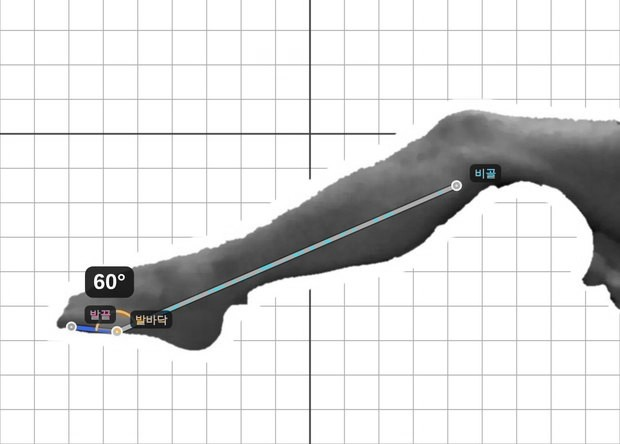
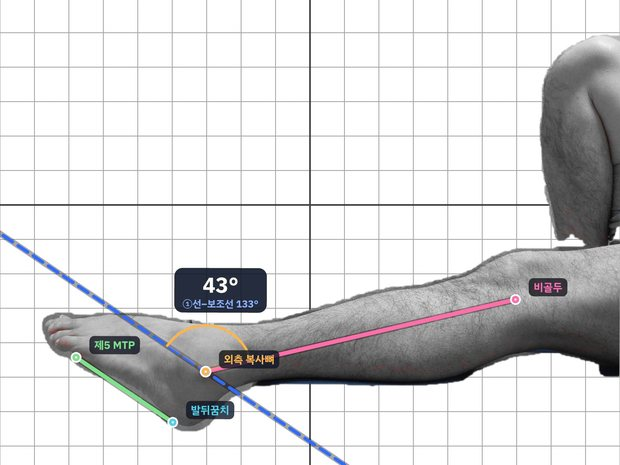
fix: 발목 배측·저측굴곡 측정가이드에 예시 사진이 없던 문제
v266 에서 발목을 4점 방식으로 바꾸면서, 예전 3점 예시 사진이 새 기준과 달라
측정가이드에서 사진을 아예 숨겨 놓았다(다른 부위는 모두 사진이 보임).

- guide/rom/ankle_{L,R}_{dorsi,plantar}.jpg 4장을 4점 기준으로 다시 찍은
  사진으로 교체 (620x465 · 기존 가이드 사진과 같은 형식)
  · 촬영 정보가 담긴 머리말(센터·측정일 등)은 잘라냄, EXIF 없음
  · 몸은 흑백, 측정선·라벨 색은 유지 (①선 분홍 · ②선 초록 · 보조선 파랑)
- openRomGuide(): 4점(aux) 항목도 3점 항목과 같은 자리·같은 마크업으로
  예시 사진을 보여주고, 못 불러오면 같은 안내 문구를 띄움
- 사진 주소 뒤 버전을 v270 으로 올려 예전 사진이 캐시에 남지 않게
- docs/TESTING.md 점검표 17번 추가

Claude-Session: https://claude.ai/code/session_01PyFQzXUK3gVAPtCoid5yqG

diff --git a/index.html b/index.html
@@ -13505,7 +13505,7 @@
     var G = ROM_GD[J.k + "|" + mv.k]; if(!G) return;
     var sd = romSd(J, mv), lr = sd !== "C";
     if(romGdSide == null || !lr) romGdSide = lr ? sd : "C";
-    var src = "guide/rom/" + J.k + "_" + romGdSide + "_" + mv.k + ".jpg?v=220";   // v202 새 기준 실루엣 사진으로 교체
+    var src = "guide/rom/" + J.k + "_" + romGdSide + "_" + mv.k + ".jpg?v=270";   // v270 발목은 4점 기준 사진으로 교체 (v202 새 기준 실루엣 사진)
     $("ptGuideTitle").textContent = "측정가이드 · " + J.n + " " + mv.n;
     var aux = mv.kind === "aux";
     $("ptGuideSub").textContent = (lr ? (romGdSide === "R" ? "우측" : "좌측") + " 예시 · " : "") + (aux ? "측정점 4개 · 측정선 2개 + 파란 보조선" : "측정점 3개 · 측정선 2개");
@@ -13514,6 +13514,7 @@
       $("ptGuideBody").innerHTML =
         '<div class="pg-pose"><b>측정 자세</b> · ' + mv.guide + '</div>' +
         (lr ? '<div class="pg-side"><button type="button" data-gs="L" aria-pressed="' + (romGdSide === "L") + '">좌측</button><button type="button" data-gs="R" aria-pressed="' + (romGdSide === "R") + '">우측</button></div>' : '') +
+        '<div class="pg-pics one"><figure><img src="' + src + '" alt="' + esc(J.n + " " + mv.n) + ' 측정점 예시" loading="lazy"></figure></div>' +   // v270 4점 기준으로 다시 찍은 예시 사진
         '<ul class="pg-list">' +
           '<li><i style="background:' + ROM_COL[0] + '"></i><b>①선 시작</b><span>' + esc(G.V) + '</span></li>' +
           '<li><i style="background:' + ROM_COL[1] + '"></i><b>①선 끝</b><span>' + esc(G.D) + '</span></li>' +
@@ -13524,7 +13525,9 @@
         '<p class="pg-warn"><b>자주 틀리는 곳</b> · ' + esc(G.tip) + '</p>' +
         '<p class="pg-tip">각도 = ①선(외측 복사뼈 → 비골두) ↔ 파란 보조선 사이각 · 측정값 = ' + ((mv.sgn || 1) < 0 ? '90° − 사이각' : '사이각 − 90°') + ' (정강이와 발바닥이 직각이면 0°).</p>';
       $("ptGuideBody").querySelectorAll("[data-gs]").forEach(function(b){ b.addEventListener("click", function(){ romGdSide = b.getAttribute("data-gs"); openRomGuide(); }); });
-      $("ptGuide").hidden = false; return;   // (예전 3점 예시 사진은 새 기준과 달라 보여주지 않음)
+      var imA = $("ptGuideBody").querySelector("img");
+      imA.onerror = function(){ imA.closest("figure").outerHTML = '<p class="pg-tip">예시 사진을 불러오지 못했어요. 인터넷 연결 후 다시 열어 주세요.</p>'; };
+      $("ptGuide").hidden = false; return;
     }
     $("ptGuideBody").innerHTML =
       '<div class="pg-pose"><b>측정 자세</b> · ' + mv.guide + '</div>' +

diff --git a/docs/TESTING.md b/docs/TESTING.md
@@ -31,6 +31,8 @@
 | 14 | 관리자 모드로 촬영·편집할 때 화면에 좌표 창이나 점 옆 좌표 글자가 안 뜨고, 저장한 뒤 엑셀의 "수정전/수정후 좌표" 열에는 좌표가 남아 있다 | 안드로이드 |
 | 15 | 관리자 모드로 발목 배측·저측굴곡(좌·우)을 측정·저장 → 엑셀의 1선은 "외측 복사뼈 → 비골두", 2선은 "발뒤꿈치 → 제5 MTP", 각도축은 "1선과 생성된 보조선"으로 적힌다 (각도 값은 측정할 때와 같다) | 안드로이드 |
 | 16 | 관리자 모드로 자동 인식 점을 **그대로** 저장 → 그 기록을 다시 열어 점을 옮기고 저장 → 엑셀에 "수정 전·수정 후" 사진 두 장과 옮긴 좌표·각도(`51° → 47°`)가 나온다 ("수정 없음" 이 아니다) | 안드로이드 |
+| 17 | ROM → 발목 배측굴곡/저측굴곡 → [📍 측정가이드] → 좌측·우측 예시 사진이 **4점(외측 복사뼈·비골두·발뒤꿈치·제5 MTP)** 기준으로 보이고, 좌측/우측 버튼으로 사진이 바뀐다 | 안드로이드 |
+
 
 ## 4. 버그를 발견했을 때
 1. `/fix` 에 "어느 화면에서, 무엇을 했더니, 무엇이 잘못됐다" 를 적는다.
